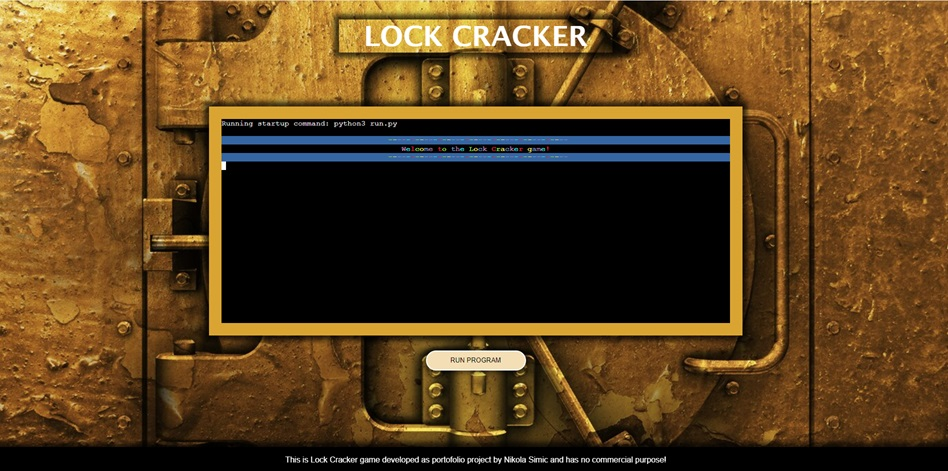
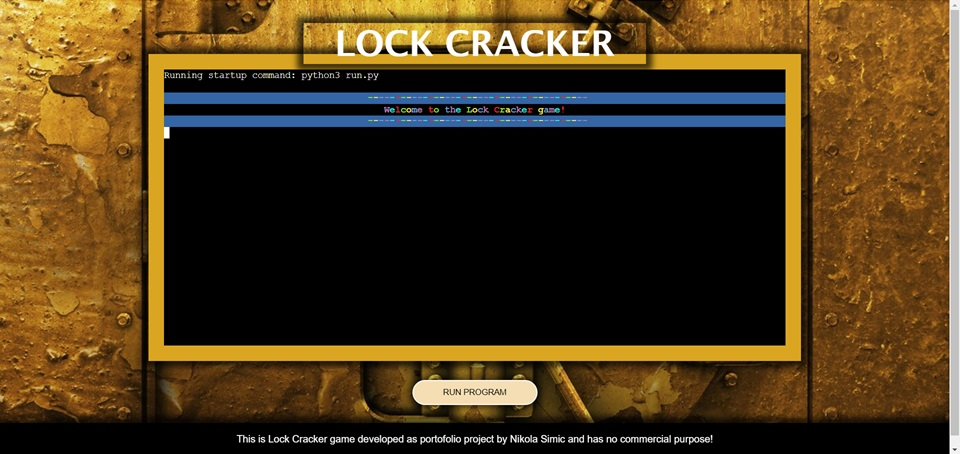
Welcome changed to greetings in greeting players block

diff --git a/run.py b/run.py
@@ -414,7 +414,7 @@ country_part = (
 TERMINAL_WIDTH = 113
 print(Back.WHITE + Fore.BLACK + '=' * TERMINAL_WIDTH + Style.RESET_ALL)
 print(Back.GREEN + ' ' * TERMINAL_WIDTH + Style.RESET_ALL)
-print_colored_text(" W E L C O M E ")
+print_colored_text(" G R E E T I N G S ")
 print()
 print_colored_text(player_name)
 print()
